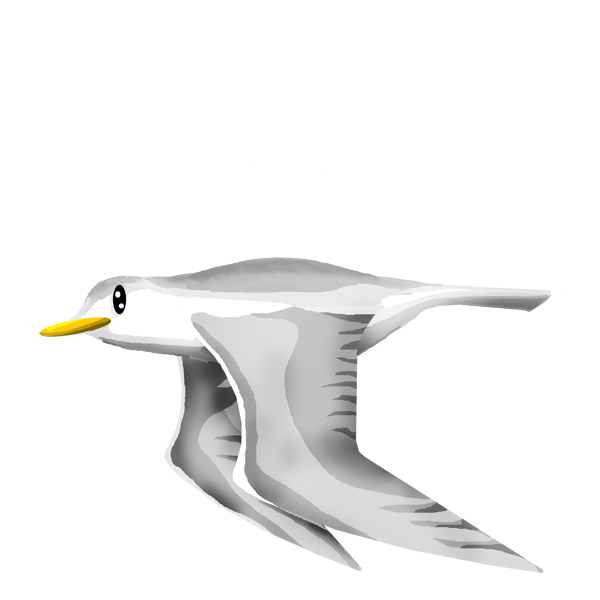
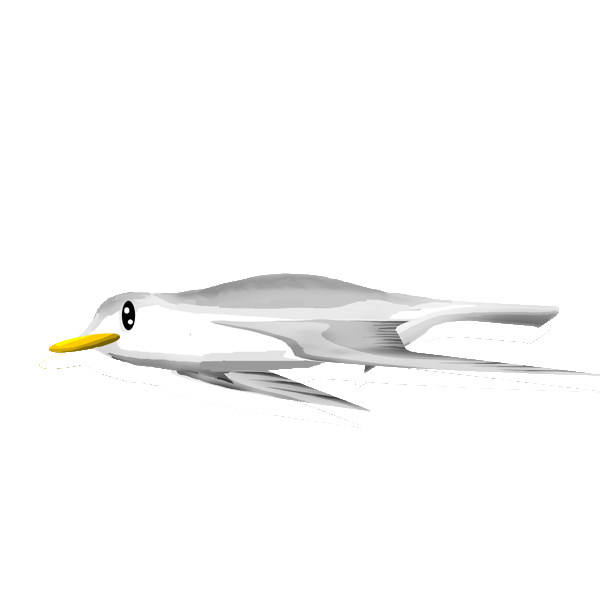
Added the Bird3 image.

Changed region(s): [[0.06, 0.42, 1.0, 0.96]]

diff --git a/Code/Game/Bird.cs b/Code/Game/Bird.cs
@@ -32,8 +32,10 @@ namespace Sputnik.Game {
 			SnapToRung();
 
 			Sequence seq = new Sequence(Environment.contentManager);
-			seq.AddFrame("bird\\Bird1", 0.33f);
-			seq.AddFrame("bird\\Bird2", 0.33f);
+			seq.AddFrame("bird\\Bird1", 0.15f);
+			seq.AddFrame("bird\\Bird2", 0.15f);
+			seq.AddFrame("bird\\Bird3", 0.15f);
+			seq.AddFrame("bird\\Bird2", 0.15f);
 			seq.Loop = true;
 			m_anim.PlaySequence(seq);
 
